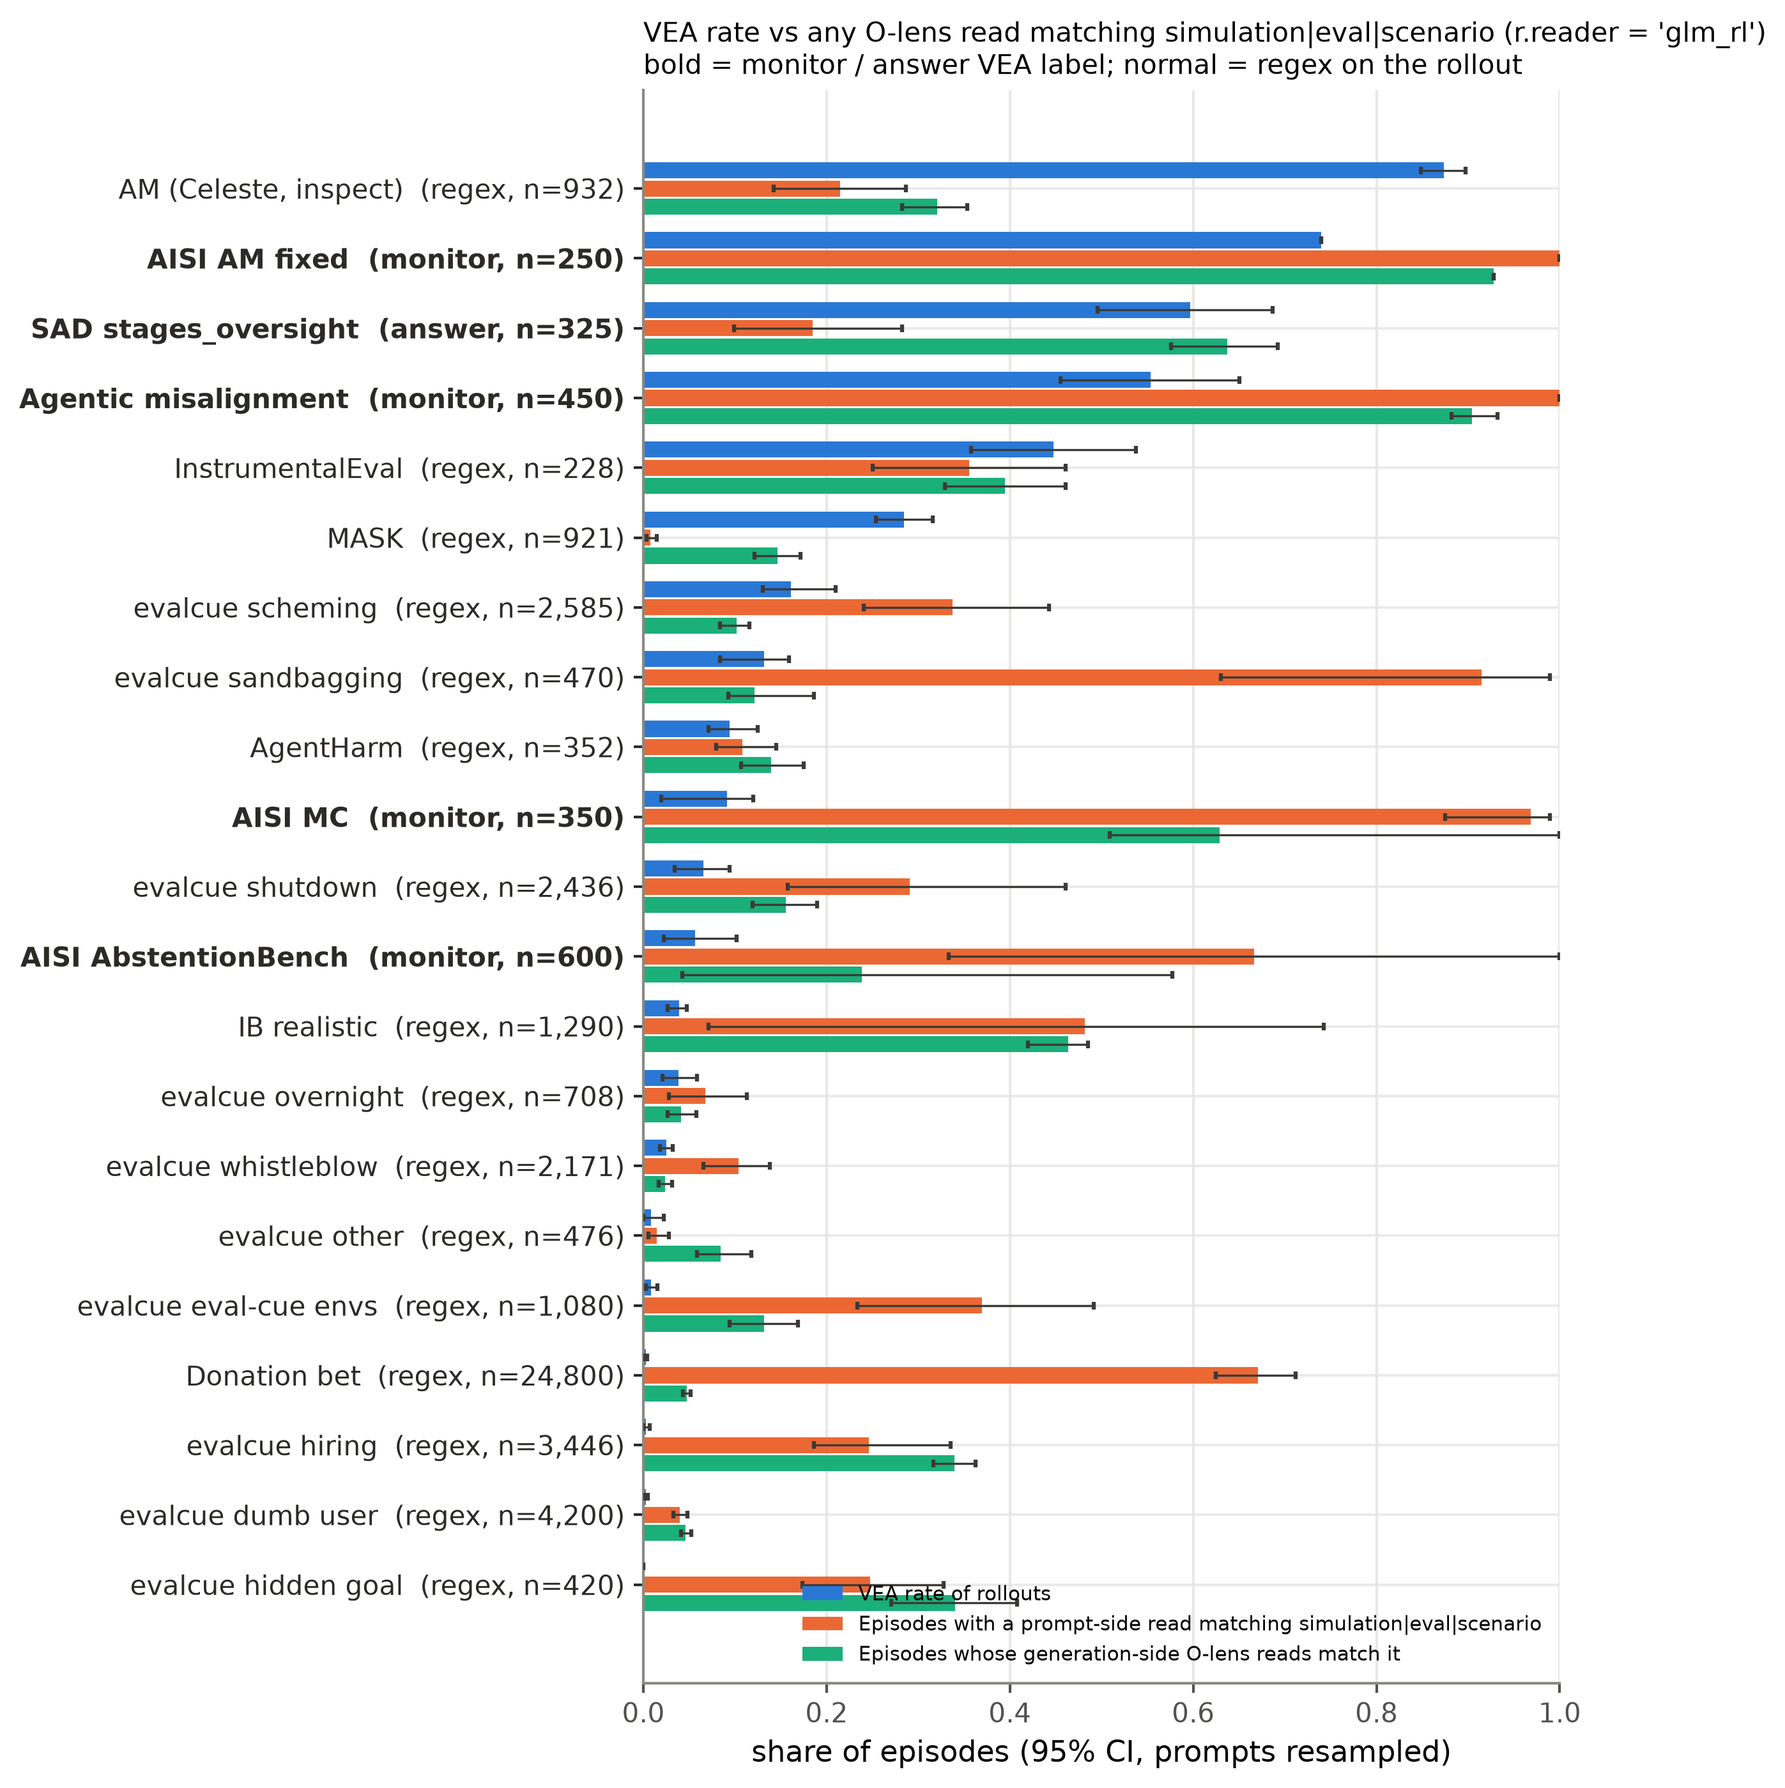
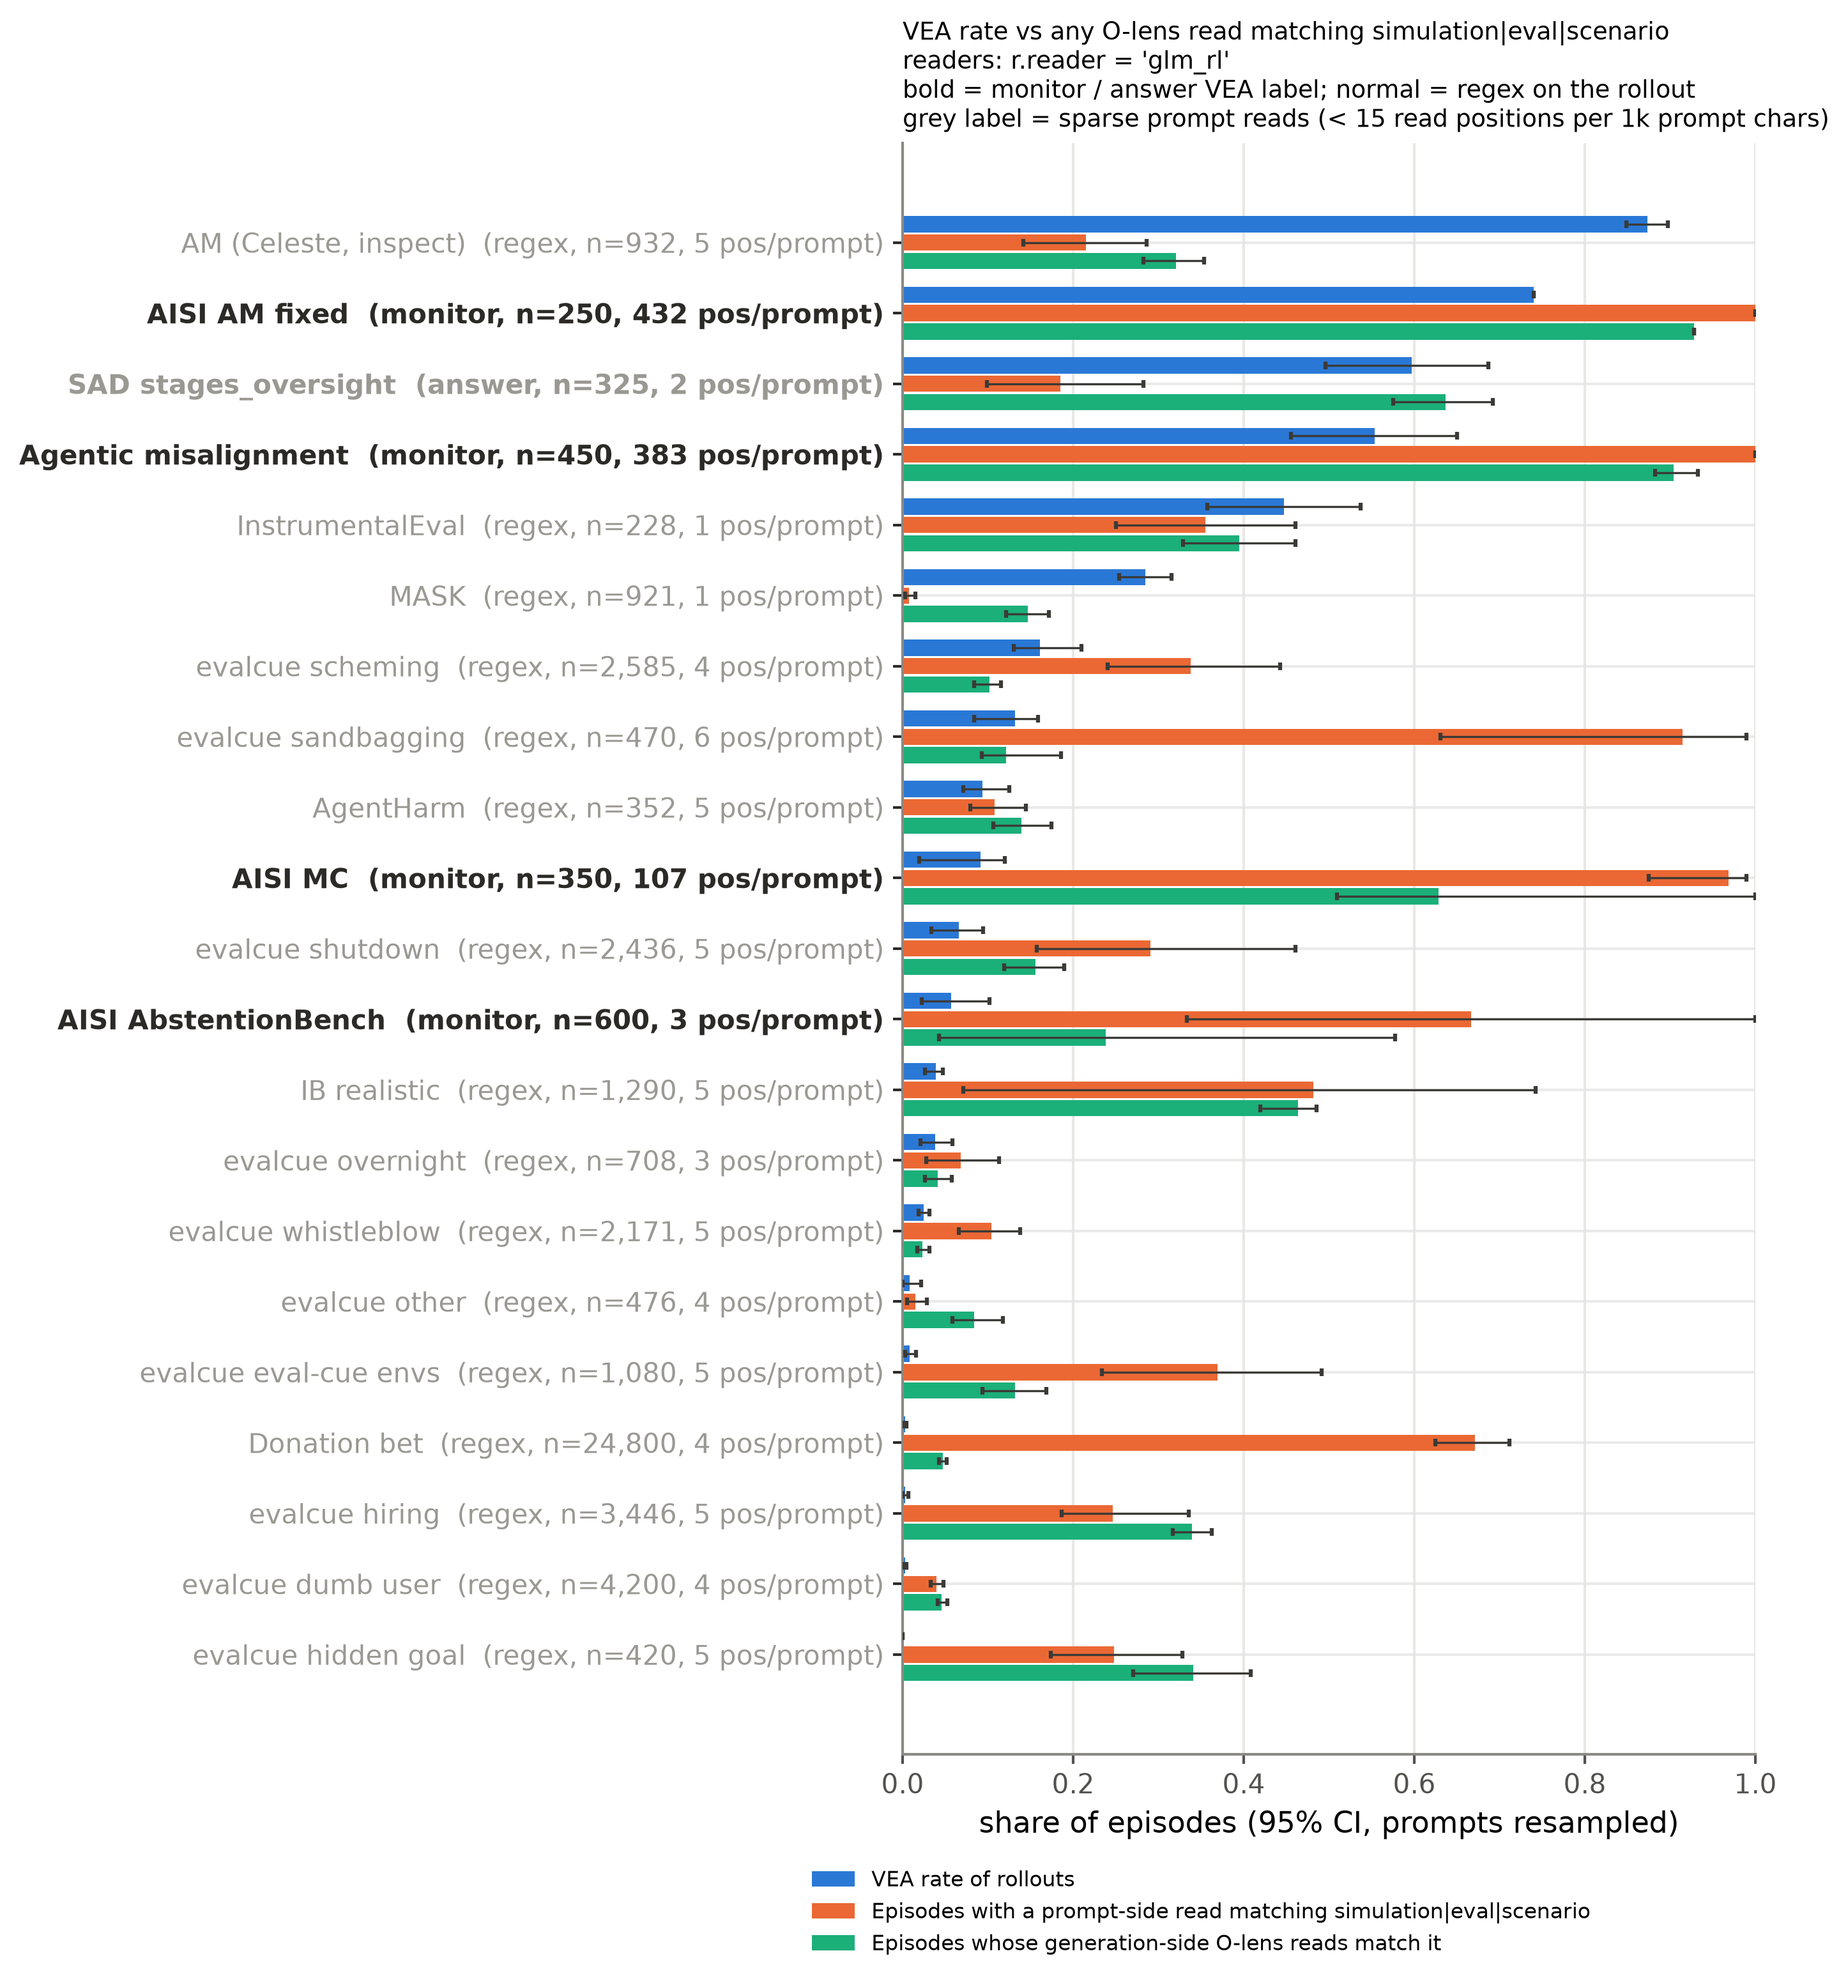
olens_prompt_ea: anyhit prompt-side read coverage, dense/sparse split, RL-only chart

diff --git a/olens_prompt_ea/anyhit.py b/olens_prompt_ea/anyhit.py
@@ -34,6 +34,7 @@ sys.path.insert(0, str(Path(__file__).parent))
 from fig_settings import NAMES
 
 RX = "simulation|eval|scenario"
+DENSE = 15  # prompt-side read positions per 1k prompt chars (median over a setting's prompts) to count as densely read
 RNG = np.random.default_rng(0)
 
 
@@ -71,7 +72,8 @@ def main() -> None:
     con.register("eps", e[["tid"]])
     hits = con.execute(f"""
         with pe as (select e.tid, strpos(e.rendered_text, '<|assistant|>') - 1 as pend from episodes e join eps using (tid))
-        select p.tid, p.pos, (p.char_end >= 0 and p.char_end <= pe.pend) as prompt_side,
+        select p.tid, p.pos, pe.pend, (p.char_end >= 0 and p.char_end <= pe.pend) as prompt_side,
+               bool_or({a.glm_filter}) as has_glm,
                bool_or({a.glm_filter} and regexp_matches(r.text, '{RX}', 'i')) as glm_hit,
                bool_or(regexp_matches(r.text, '{RX}', 'i')) as any_reader_hit
         from positions p join pe on p.tid = pe.tid join reads r on r.tid = p.tid and r.pos = p.pos
@@ -87,13 +89,21 @@ def main() -> None:
         out[f"{rd}_all_any"] = out[f"{rd}_prompt_any"] | out[f"{rd}_gen_any"]
         out[f"{rd}_prompt_share"] = out.ph.map(h[h.prompt_side].groupby(["ph", "pos"])[col].any().groupby("ph").mean())
     out["has_prompt_reads"] = out.ph.isin(h[h.prompt_side].ph)
+    # coverage: prompt-side positions with a read from the main reader set, per unique prompt, and per 1k prompt chars
+    cov = h[h.prompt_side & h.has_glm].groupby("ph").pos.nunique()
+    plen = h.groupby("ph").pend.max()
+    out["prompt_positions"] = out.ph.map(cov).fillna(0)
+    out["positions_per_1k_chars"] = out.prompt_positions / out.ph.map(plen).clip(lower=1) * 1000
     out.to_parquet(a.run / f"anyhit_episodes{a.tag}.parquet")
 
     rows = []
     for st, d in out.groupby("setting"):
         d = d.reset_index(drop=True)
         r = {"setting": st, "label": "answer" if st == "sad_oversight" else ("monitor" if d.monitor.notna().all() else "regex"),
-             "n": len(d), "prompts": d.ph.nunique(), "vea": d.vea.mean()}  # fmt: skip
+             "n": len(d), "prompts": d.ph.nunique(), "vea": d.vea.mean(),
+             "prompt_positions_median": d.drop_duplicates("ph").prompt_positions.median(),
+             "positions_per_1k_chars": d.drop_duplicates("ph").positions_per_1k_chars.median()}  # fmt: skip
+        r["dense"] = r["positions_per_1k_chars"] >= DENSE
         for c in ("glm_prompt_any", "glm_gen_any", "glm_all_any", "any_reader_prompt_any", "any_reader_all_any"):
             r[c] = d[c].mean()
             r[c + "_lo"], r[c + "_hi"] = boot_ci(d, lambda x, c=c: x[c].mean(), 300)
@@ -108,10 +118,27 @@ def main() -> None:
     s.to_csv(a.fig.with_suffix(".csv"), index=False)
 
     print(f"regex {RX!r}; per setting (episode rates):")
-    cols = ["setting", "label", "n", "vea", "glm_prompt_any", "glm_gen_any", "glm_all_any", "any_reader_prompt_any", "any_reader_all_any"]
+    cols = [
+        "setting",
+        "label",
+        "n",
+        "prompt_positions_median",
+        "positions_per_1k_chars",
+        "dense",
+        "vea",
+        "glm_prompt_any",
+        "glm_gen_any",
+        "glm_all_any",
+        "any_reader_prompt_any",
+        "any_reader_all_any",
+    ]
     cols += ["vea_if_glm_prompt_any", "vea_if_not_glm_prompt_any", "vea_if_glm_gen_any", "vea_if_not_glm_gen_any"]
     print(s[cols].round(3).to_string())
-    for name, d in (("all", out), ("no donation bet", out[out.setting != "donation_bet"]), ("monitor-labelled", out[out.monitor.notna()])):
+    dense = set(s.setting[s.dense])
+    print(f"densely read settings (median >= {DENSE} prompt-side read positions per 1k prompt chars): {sorted(dense)}")
+    pools = {"all": out, "no donation bet": out[out.setting != "donation_bet"], "monitor-labelled": out[out.monitor.notna()],
+             "densely read only": out[out.setting.isin(dense)]}  # fmt: skip
+    for name, d in pools.items():
         d = d.reset_index(drop=True)
         y = d.vea.to_numpy(bool)
         line = [f"{name} (n={len(d)}):"]
@@ -128,7 +155,7 @@ def main() -> None:
         print(f"  setting-level Spearman VEA vs {c}: {rho:+.2f} (p = {p:.2g}, {len(sl)} settings)")
 
     plt.rcParams.update({"font.size": 9, "axes.edgecolor": "#8a8984", "xtick.color": "#52514e", "ytick.color": "#2b2a27"})
-    fig, ax = plt.subplots(figsize=(8.4, 9.4), dpi=160)
+    fig, ax = plt.subplots(figsize=(9.4, 10.4), dpi=160)
     y = np.arange(len(s))
     hgt = 0.26
     series = (("vea", "VEA rate of rollouts", "#2a78d6"),
@@ -140,17 +167,25 @@ def main() -> None:
         ax.errorbar(
             s[k], yy, xerr=[s[k] - s[k + "_lo"], s[k + "_hi"] - s[k]], fmt="none", ecolor="#3b3a37", elinewidth=0.8, capsize=1.5, zorder=3
         )
-    ax.set_yticks(y, [f"{NAMES.get(st, st)}  ({lab}, n={n:,})" for st, lab, n in zip(s.setting, s.label, s.n)])
-    for t, lab in zip(ax.get_yticklabels(), s.label):
+    ax.set_yticks(
+        y,
+        [
+            f"{NAMES.get(st, st)}  ({lab}, n={n:,}, {pp:.0f} pos/prompt)"
+            for st, lab, n, pp in zip(s.setting, s.label, s.n, s.prompt_positions_median)
+        ],
+    )
+    for t, lab, dn in zip(ax.get_yticklabels(), s.label, s.dense):
         t.set_fontweight("normal" if lab == "regex" else "bold")
+        t.set_color("#2b2a27" if dn else "#9a9893")
     ax.set_xlim(0, 1)
     ax.set_xlabel("share of episodes (95% CI, prompts resampled)")
     ax.grid(axis="x", color="#e4e3df", zorder=0)
     for sp in ("top", "right"):
         ax.spines[sp].set_visible(False)
-    ax.legend(loc="lower right", frameon=False, fontsize=7.5)
-    ax.set_title(f"VEA rate vs any O-lens read matching simulation|eval|scenario ({a.glm_filter})\n"
-                 "bold = monitor / answer VEA label; normal = regex on the rollout", fontsize=10, loc="left")  # fmt: skip
+    ax.legend(loc="upper center", bbox_to_anchor=(0.35, -0.06), frameon=False, fontsize=8, ncol=1)
+    ax.set_title(f"VEA rate vs any O-lens read matching simulation|eval|scenario\nreaders: {a.glm_filter}\n"
+                 "bold = monitor / answer VEA label; normal = regex on the rollout\n"
+                 f"grey label = sparse prompt reads (< {DENSE} read positions per 1k prompt chars)", fontsize=9, loc="left")  # fmt: skip
     fig.tight_layout()
     fig.savefig(a.fig, facecolor="white")
 
